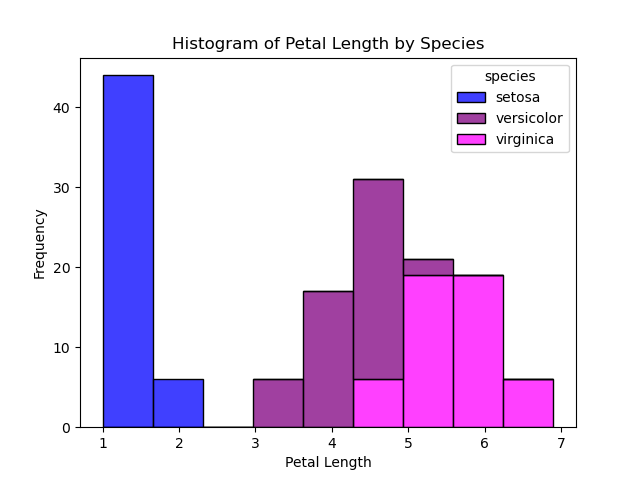
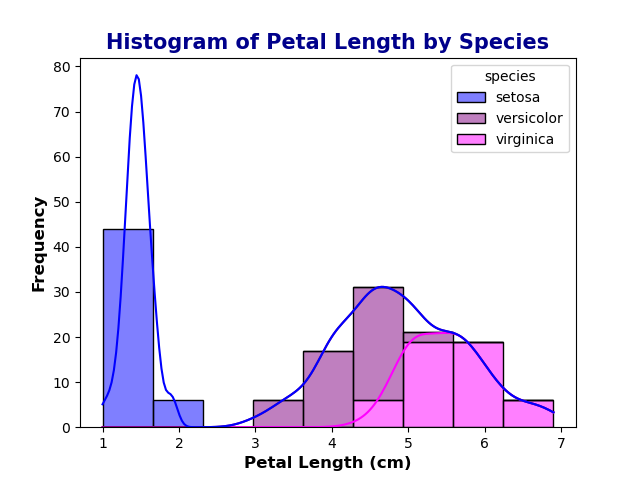
updated plots

diff --git a/analysis.py b/analysis.py
@@ -92,34 +92,34 @@ with open('summary_statistics.txt', 'w') as f:
 # HISTOGRAMS:
 
 # histogram of sepal width per species:
-sns.histplot(data=df, x='sepal_width', hue='species', multiple='stack', kde=False, palette={'setosa': 'blue', 'versicolor': 'purple', 'virginica': 'magenta'})
-plt.title('Histogram of Sepal Width by Species')
-plt.xlabel('Sepal Width')
-plt.ylabel('Frequency')
+sns.histplot(data=df, x='sepal_width', hue='species', multiple='stack', kde=True, palette={'setosa': 'blue', 'versicolor': 'purple', 'virginica': 'magenta'})
+plt.title('Histogram of Sepal Width by Species', color='darkblue', fontsize=15, fontweight='bold')
+plt.xlabel('Sepal Width (cm)', fontsize=12, fontweight='bold')
+plt.ylabel('Frequency', fontsize=12, fontweight='bold')
 plt.savefig('histogram_sepal_width.png')
 plt.close()
 
 # histogram of sepal length per species:
-sns.histplot(data=df, x='sepal_length', hue='species', multiple='stack', kde=False, palette={'setosa': 'blue', 'versicolor': 'purple', 'virginica': 'magenta'})
-plt.title('Histogram of Sepal Length by Species')
-plt.xlabel('Sepal Length')
-plt.ylabel('Frequency')
+sns.histplot(data=df, x='sepal_length', hue='species', multiple='stack', kde=True, palette={'setosa': 'blue', 'versicolor': 'purple', 'virginica': 'magenta'})
+plt.title('Histogram of Sepal Length by Species', color='darkblue', fontsize=15, fontweight='bold')
+plt.xlabel('Sepal Length (cm)', fontsize=12, fontweight='bold')
+plt.ylabel('Frequency', fontsize=12, fontweight='bold')
 plt.savefig('histogram_sepal_length.png')
 plt.close()
 
 # histogram of petal width per species:
-sns.histplot(data=df, x='petal_width', hue='species', multiple='stack', kde=False, palette={'setosa': 'blue', 'versicolor': 'purple', 'virginica': 'magenta'})
-plt.title('Histogram of Petal Width by Species')
-plt.xlabel('Petal Width')
-plt.ylabel('Frequency')
+sns.histplot(data=df, x='petal_width', hue='species', multiple='stack', kde=True, palette={'setosa': 'blue', 'versicolor': 'purple', 'virginica': 'magenta'})
+plt.title('Histogram of Petal Width by Species', color='darkblue', fontsize=15, fontweight='bold')
+plt.xlabel('Petal Width (cm)', fontsize=12, fontweight='bold')
+plt.ylabel('Frequency', fontsize=12, fontweight='bold')
 plt.savefig('histogram_petal_width.png')
 plt.close()
 
 # histogram of petal length per species:
-sns.histplot(data=df, x='petal_length', hue='species', multiple='stack', kde=False, palette={'setosa': 'blue', 'versicolor': 'purple', 'virginica': 'magenta'})
-plt.title('Histogram of Petal Length by Species')
-plt.xlabel('Petal Length')
-plt.ylabel('Frequency')
+sns.histplot(data=df, x='petal_length', hue='species', multiple='stack', kde=True, palette={'setosa': 'blue', 'versicolor': 'purple', 'virginica': 'magenta'})
+plt.title('Histogram of Petal Length by Species', color='darkblue', fontsize=15, fontweight='bold')
+plt.xlabel('Petal Length (cm)', fontsize=12, fontweight='bold')
+plt.ylabel('Frequency', fontsize=12, fontweight='bold')
 plt.savefig('histogram_petal_length.png')
 plt.close()
 
@@ -147,16 +147,17 @@ plt.close()
 
 # scatterplot of sepal length vs sepal width per species with regression line:
 sns.lmplot(x='sepal_length', y='sepal_width', data=df, hue='species', fit_reg=True, palette={'setosa': 'blue', 'versicolor': 'purple', 'virginica': 'magenta'})
-plt.ylabel('Sepal Width')
-plt.title('Sepal Length vs Sepal Width')
+plt.xlabel('Sepal Length (cm)')
+plt.ylabel('Sepal Width (cm)')
+plt.title('Sepal Length vs Sepal Width', color='darkblue', fontsize=15, fontweight='bold')
 plt.savefig('scatterplot_sepal.png')
 plt.close()
 
 # scatterplot of petal length vs petal width per species with regression line:
 sns.lmplot(x='petal_length', y='petal_width', data=df, hue='species', fit_reg=True, palette={'setosa': 'blue', 'versicolor': 'purple', 'virginica': 'magenta'} )
-plt.xlabel('Petal Length')
-plt.ylabel('Petal Width')
-plt.title('Petal Length vs Petal Width')
+plt.xlabel('Petal Length (cm)', fontsize=12, fontweight='bold')
+plt.ylabel('Petal Width (cm)', fontsize=12, fontweight='bold')
+plt.title('Petal Length vs Petal Width', color='darkblue', fontsize=15, fontweight='bold')
 plt.savefig('scatterplot_petal.png')
 plt.close()
 
